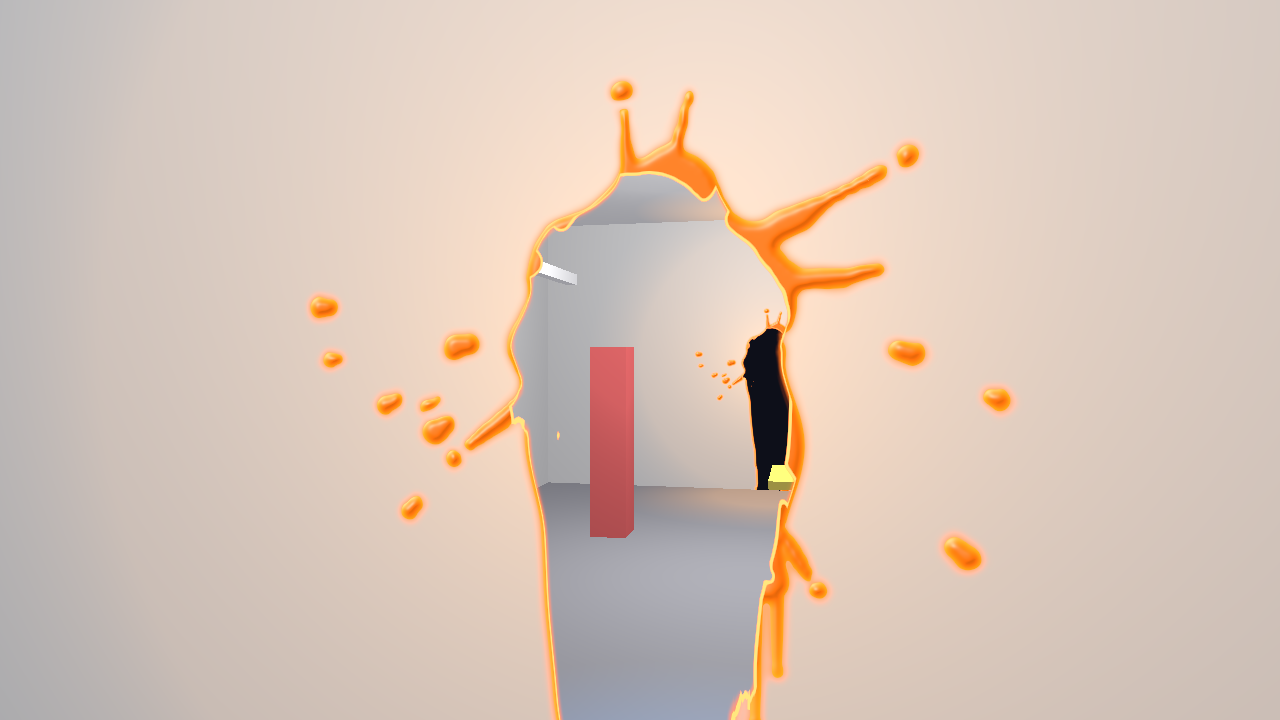
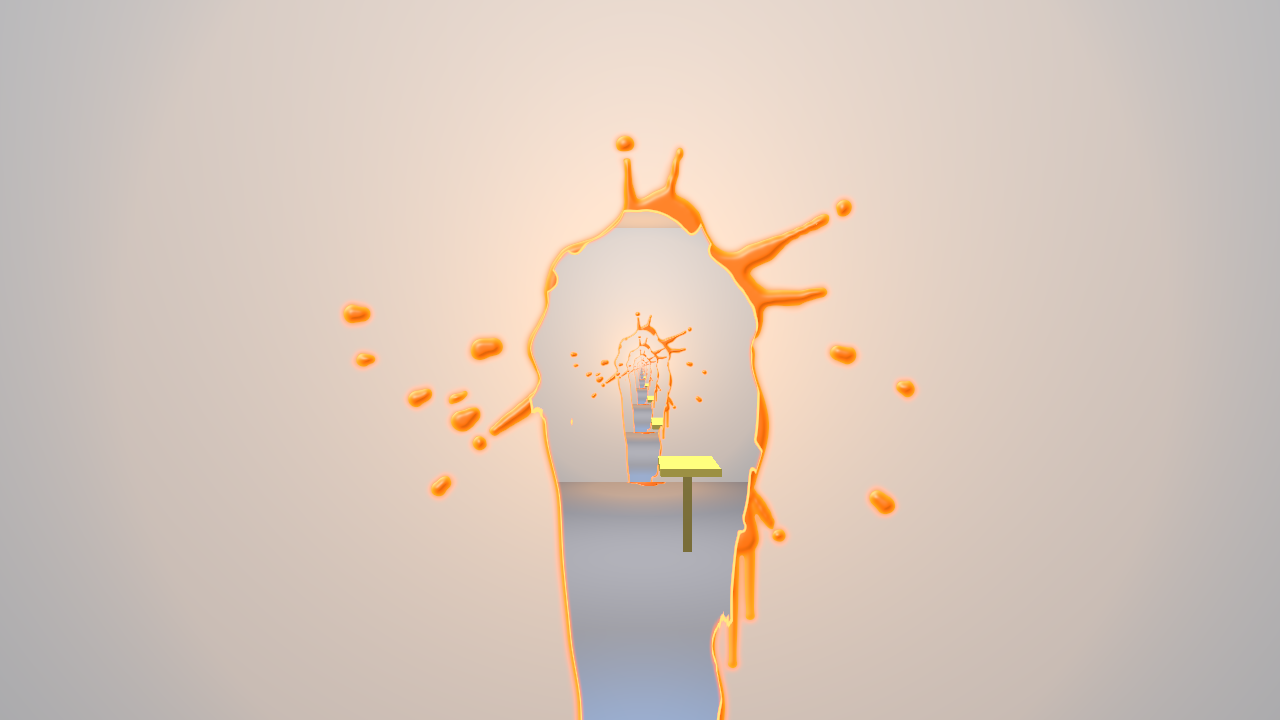
Ship the compiled scenes; endless-tunnel picture from a fresh install
The game window only loads compiled scenes, so without the .scene_c files a
fresh install started on "Couldn't find scenes/portaballs.scene". Found by
installing from scratch with the installer and starting the game from its icon.

diff --git a/README.md b/README.md
@@ -1,12 +1,12 @@
 # Portaballs
 
-A VR test room where you throw paint balls by hand. Orange from your left hand, blue from your right. The paint splats, drips down the wall and pools on the floor. Once there's an orange patch and a blue patch they link up into a portal, and you can walk through it, throw stuff through it or drop through it if it's on the floor. Walls, floor and ceiling all work.
+A VR test room where you throw portaballs by hand. They're paint balls that make portals, orange from your left hand and blue from your right. The paint splats, drips down the wall and pools on the floor. Once there's an orange patch and a blue patch they link up into a portal, and you can walk through it, throw stuff through it or drop through it if it's on the floor. Walls, floor and ceiling all work.
 
 ![The test room with an orange portal on one wall and a blue one on the other](docs/room.png)
 
 There's no actual game yet, just one gray room with some boxes in it and a couple of debug boards on the walls. I wanted to know if throwing paint with your own arm and then stepping through it would feel good in a headset, and it does, so I'm putting it out there for anyone who wants to try it or pull it apart.
 
-![Looking through the orange paint into the room on the other side](docs/through.png)
+![Two portals facing each other, so looking through one shows an endless tunnel](docs/through.png)
 
 Yes, the idea comes from Portal. The crossing works like Portal's: a patch high on a wall drops you out of it, and falling into a floor portal throws you out of the other end at the speed you went in. Nothing in it is from Valve's games.
 
@@ -40,7 +40,7 @@ If it stops partway, for example because your connection dropped, run it again. 
 
 **In the headset:** start SteamVR, then double-click **Portaballs VR**.
 
-- Squeeze grip to get a ball, throw, and let go. Left hand throws orange, right hand throws blue.
+- Squeeze grip to get a portaball, throw, and let go. Left hand throws orange, right hand throws blue.
 - The ball goes where you threw it, pulled a little toward what you were looking at.
 - Left stick walks, right stick turns.
 - Hit the same patch again to make it bigger. Hit somewhere new and that color's patch moves there.
@@ -53,6 +53,7 @@ Some buttons switch test settings for the portal view: **B** cycles the view mod
 ## What's rough
 
 - It's one test room. No menu, no sound, no goal.
+- Each hand only throws one color for now. Next I'm adding a selection wheel on each hand, so you can pick blue or orange portaballs on your dominant hand.
 - Your hand and the ball you're holding show through a portal, but a few millimeters right at the surface can show a thin gap if you look from the side.
 - While a big splat is still dripping, the opening's center can jump down a bit in the first second or two. It settles after that.
 - Throws tend to land a little high. I'm not sure why yet.
